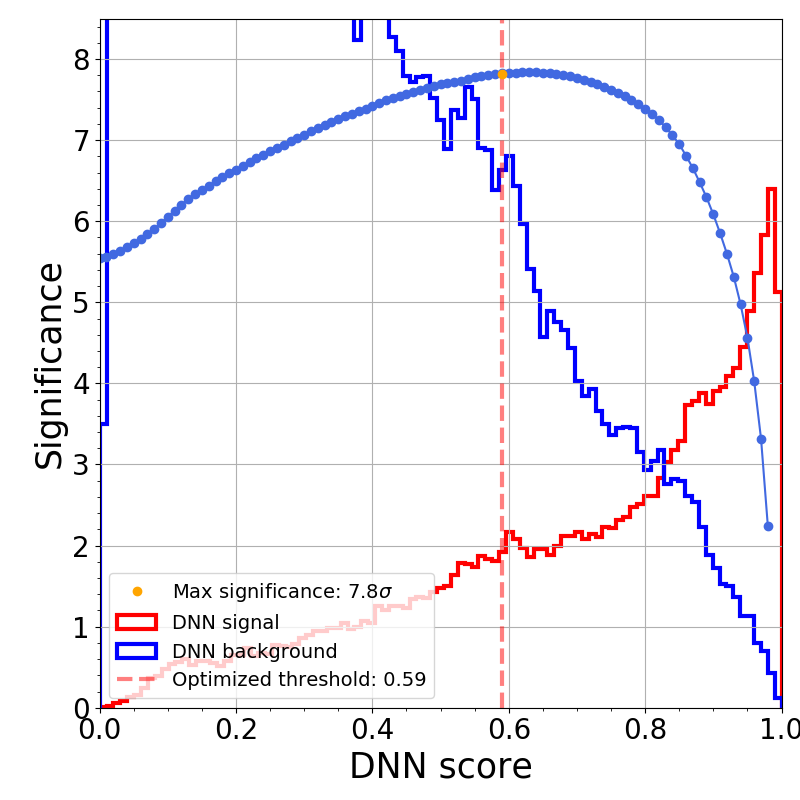
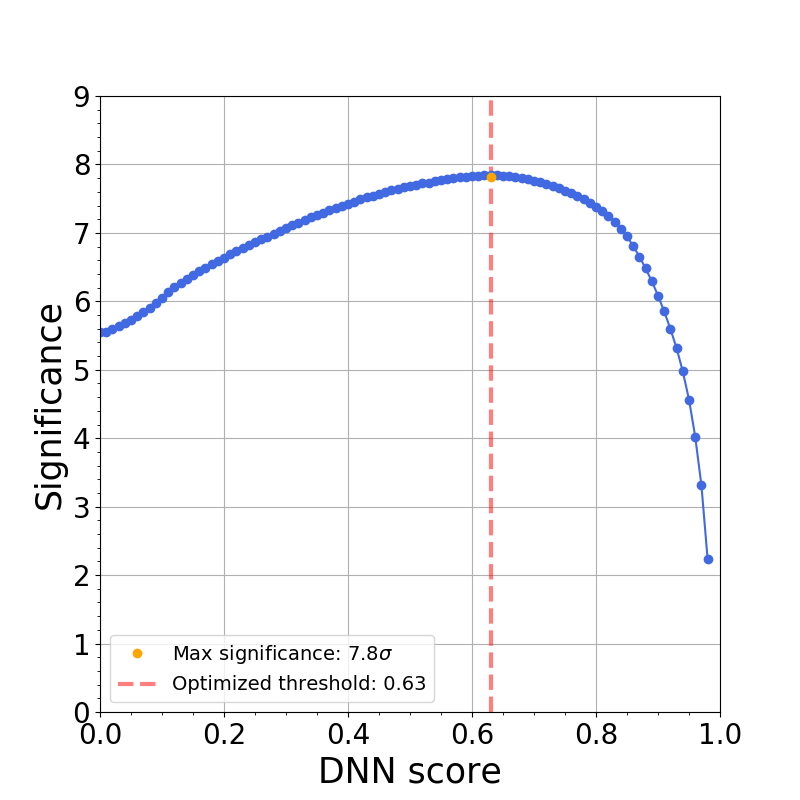
lowlevel

diff --git a/evaluation/Score.py b/evaluation/Score.py
@@ -42,7 +42,6 @@ plt.rc('xtick',labelsize=20)
 plt.rc('ytick',labelsize=20)
 plt.rcParams["figure.figsize"] = (8,8)
 
-
 bins = np.linspace(0,1,100)
 normed_hist_sig = plt.hist(hist_pred_sig,bins=bins,color='r',histtype='step',linewidth=3,weights=weight_sig,label='DNN signal')
 normed_hist_bkg = plt.hist(hist_pred_bkg,bins=bins,color='b',histtype='step',linewidth=3,weights=weight_bkg,label='DNN background')
@@ -58,7 +57,7 @@ plt.minorticks_on()
 
 plt.tight_layout()
 plt.savefig("normed_score.png")
-
+plt.close()
 
 N_bkg = normed_hist_bkg[0]
 N_sig = normed_hist_sig[0]
@@ -82,17 +81,17 @@ print(arr_significance.index(max(arr_significance)))
 print(max(arr_significance))
 
 
-x_max = 0.59
+x_max = 0.63
 x_dot = x_max
 y_dot = 7.811061160473836
 plt.rcParams["legend.loc"] = 'lower left'
 plt.plot(list([round(i*0.01,2) for i in range(0,99)]),arr_significance,'-o',color='royalblue')
 plt.xlabel('DNN score',fontsize=25)
 plt.ylabel('Significance',fontsize=25)
-plt.vlines(x_max, ymin=0, ymax=10, linestyle='dashed',linewidth=3, alpha=0.5, color='red',label='Optimized threshold: 0.59')
+plt.vlines(x_max, ymin=0, ymax=10, linestyle='dashed',linewidth=3, alpha=0.5, color='red',label='Optimized threshold: 0.63')
 plt.plot(x_dot, y_dot, 'o',color='orange', label='Max significance: 7.8$\sigma$')
 plt.xlim(0,1)
-plt.ylim(0,8.5)
+plt.ylim(0,9)
 plt.legend(prop={'size':14})
 plt.grid(which='major', linestyle='-')
 plt.minorticks_on()
